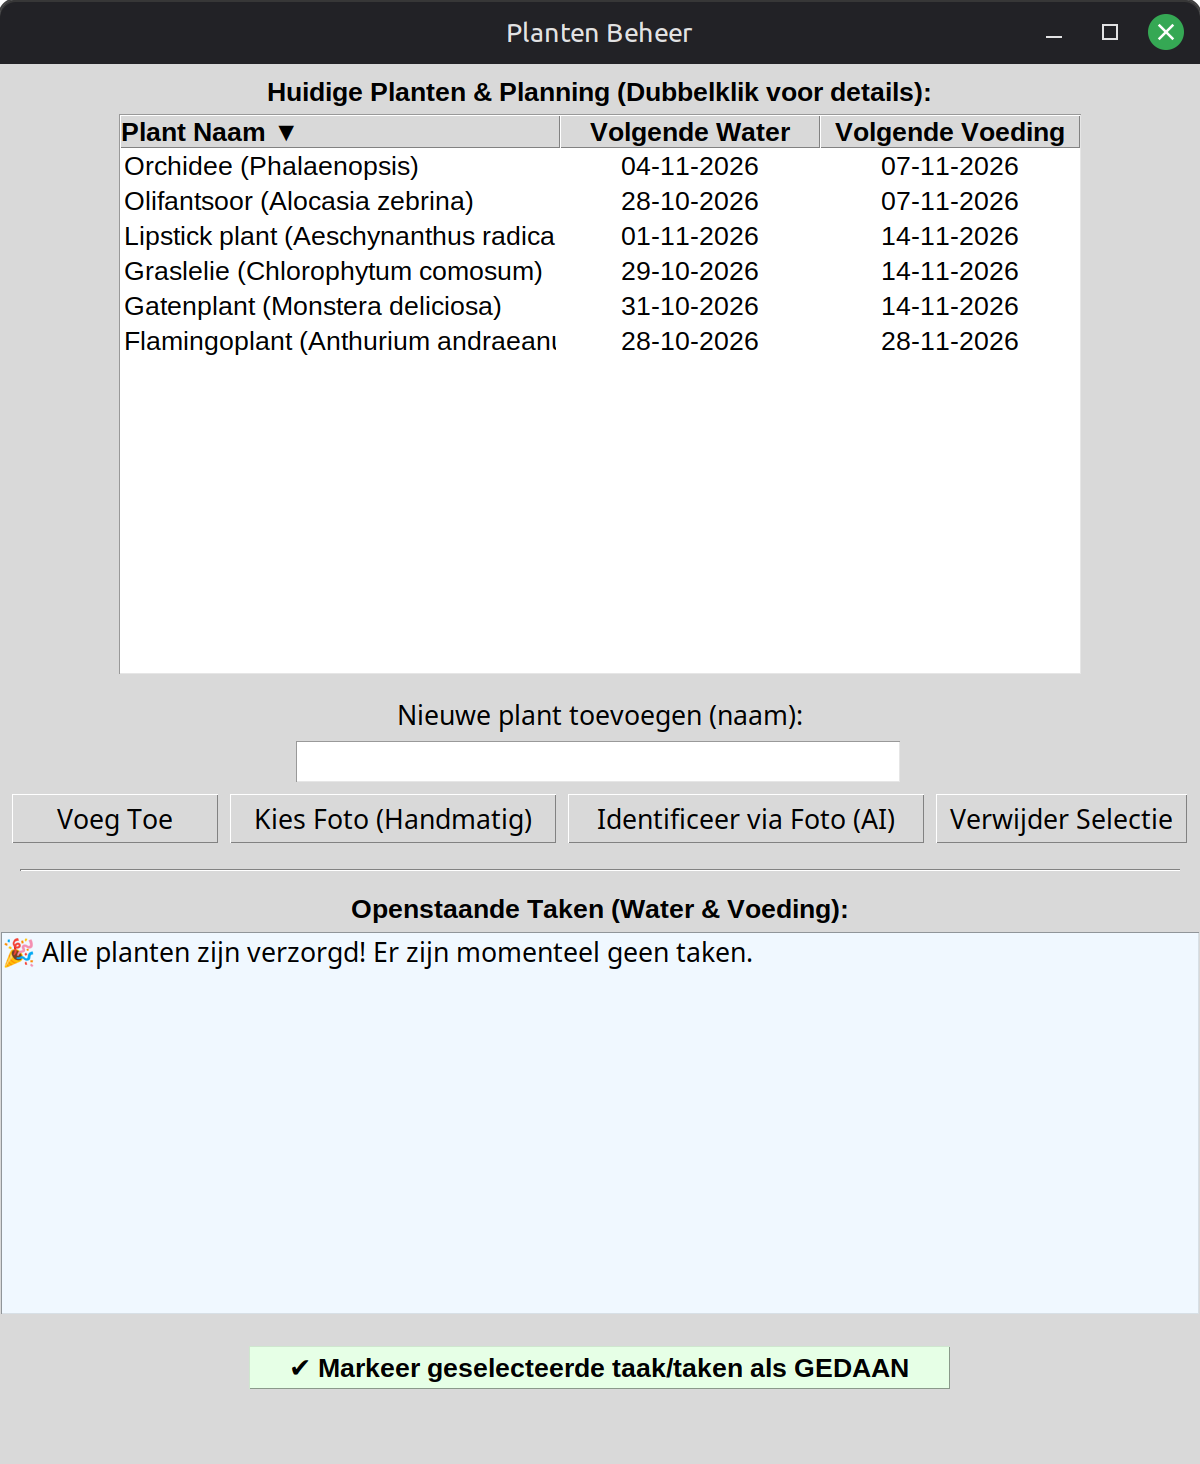
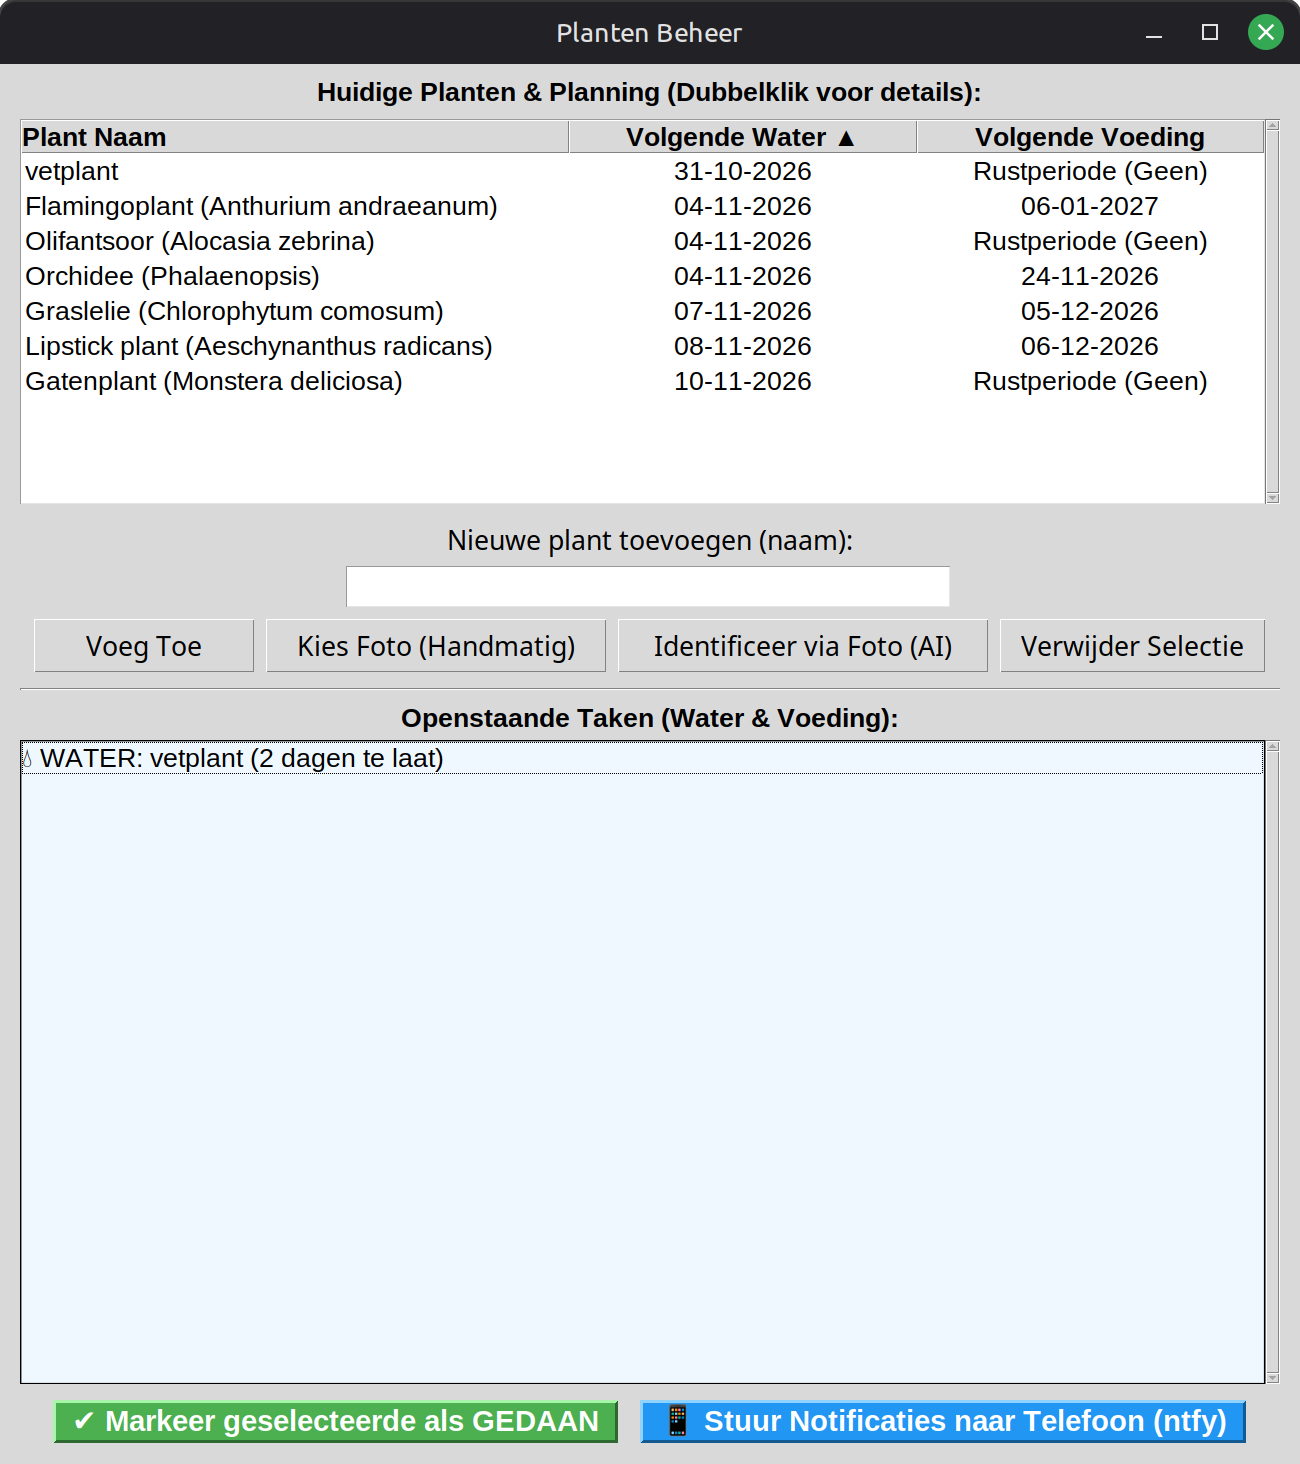
docs + screenshot

diff --git a/README.md b/README.md
@@ -20,7 +20,7 @@ De applicatie is opgesplitst in een grafische frontend voor lokaal beheer (met l
 
 ```mermaid
 graph TD
-    subgraph Laptop (Linux Mint)
+    subgraph Laptop ["Laptop (Linux Mint)"]
         A[Gebruiker] -->|1. Kiest foto Handmatig/AI| B(plant_manager.py)
         B -->|Base64 Image + Prompt| C[(Ollama: llava)]
         C -->|Plantnaam & JSON schema data| B
@@ -30,7 +30,7 @@ graph TD
         D -.->|Sync via rsync/SSH| P
     end
 
-    subgraph Raspberry Pi (Headless server)
+    subgraph RaspberryPi ["Raspberry Pi (Headless server)"]
         P[(Lokale map: ~/plants)]
         E[Cronjob 08:00 via user frank] --> F(check_plants.py)
         F -->|Leest actuele data| P
@@ -38,6 +38,6 @@ graph TD
         F -->|Errors / Succes| L[cron.log]
     end
 
-    subgraph Mobile
+    subgraph Mobile ["Smartphone"]
         G -->|Pushbericht| H[Smartphone]
     end
